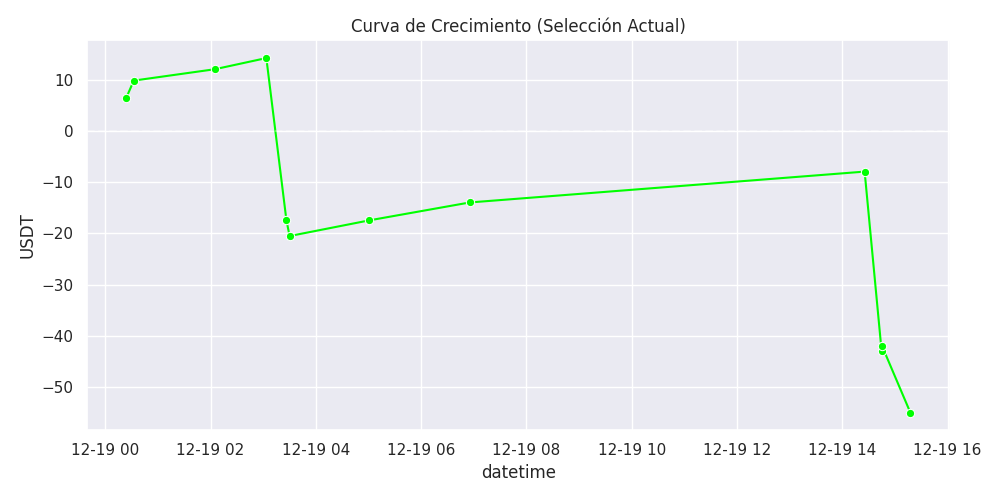
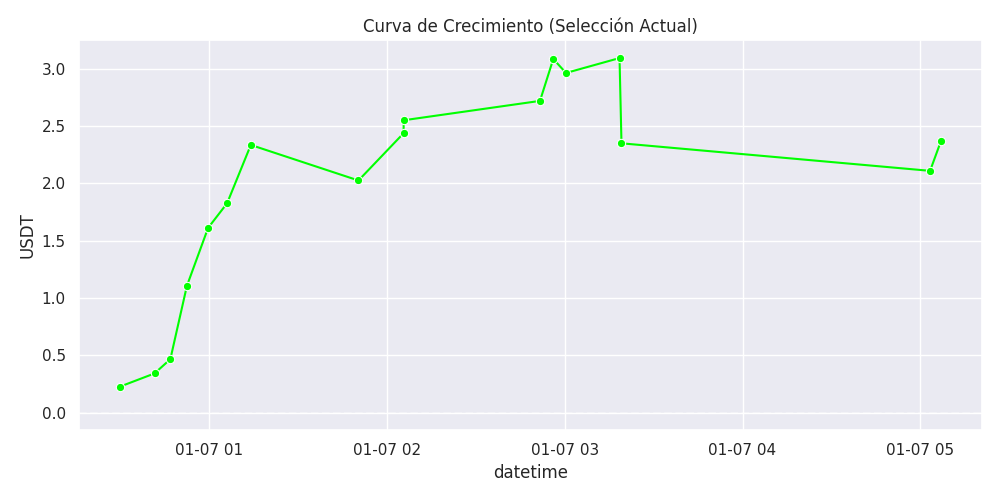
fix: audit_bot - update START_DATE and TARGET_SYMBOLS

diff --git a/analysis/audit_bot.py b/analysis/audit_bot.py
@@ -22,8 +22,8 @@ load_dotenv(DOTENV_PATH)
 
 API_KEY = os.getenv('BINANCE_API_KEY')
 API_SECRET = os.getenv('BINANCE_API_SECRET')
-TARGET_SYMBOLS = ['BTC/USDT', 'ETH/USDT', 'SOL/USDT', 'XRP/USDT', 'ADA/USDT', 'AVAX/USDT', 'LINK/USDT', 'SNX/USDT']
-START_DATE = '2025-12-15T00:00:00Z'
+TARGET_SYMBOLS = ['BTC/USDT', 'ETH/USDT', 'SOL/USDT', 'XRP/USDT', 'ADA/USDT', 'AVAX/USDT', 'LINK/USDT', 'POL/USDT', 'DOGE/USDT']
+START_DATE = '2026-01-01T00:00:00Z'
 
 if not API_KEY or not API_SECRET:
     print("❌ Error: Credenciales no encontradas en .env")
